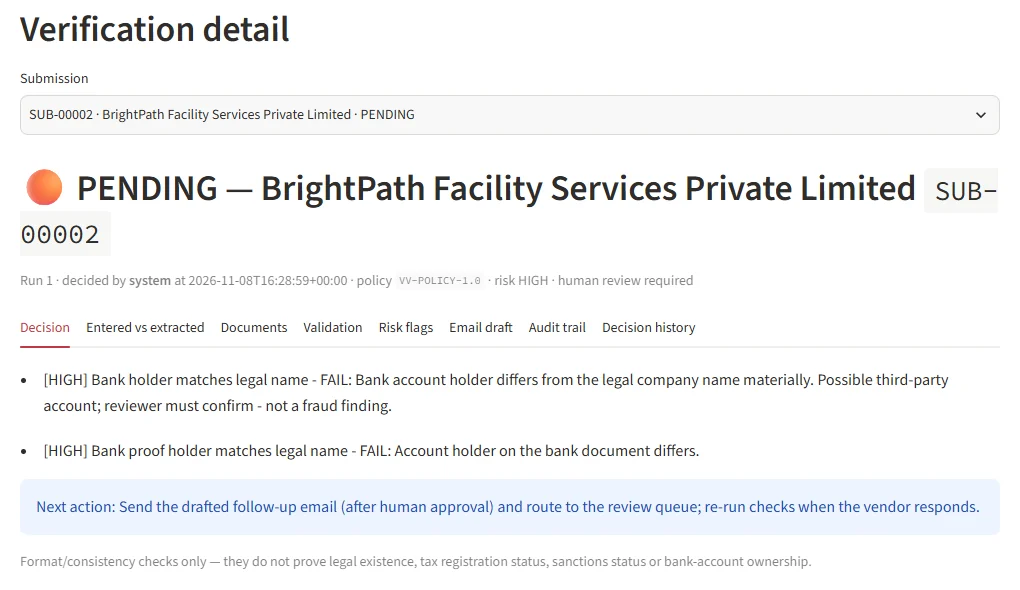
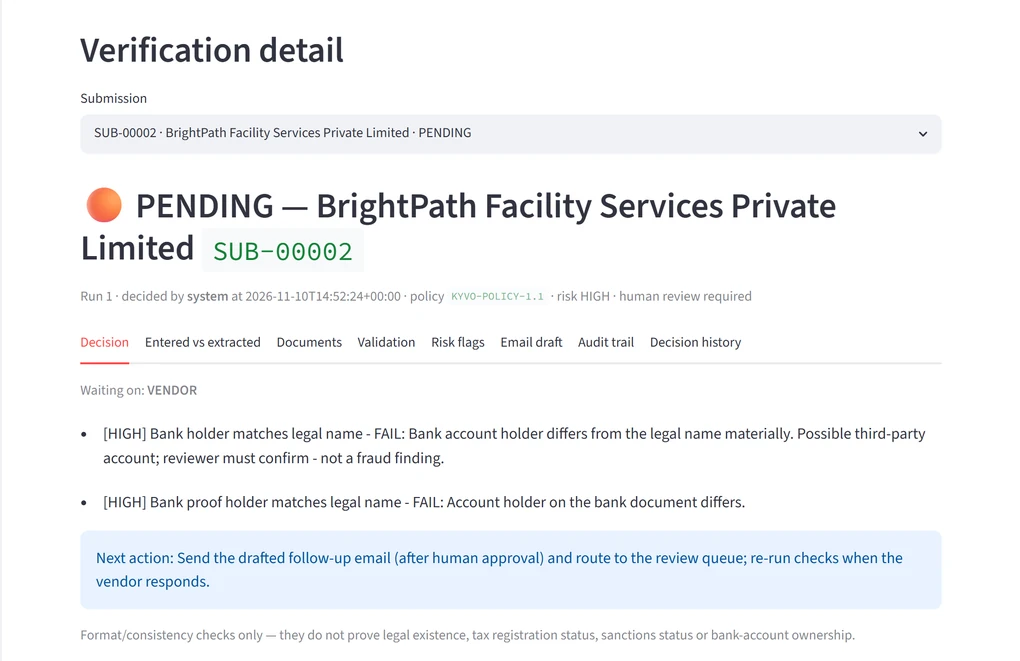
Regenerate hero screenshot with KYVO-POLICY-1.1
The landing-page hero (docs/img/verdict.webp) still showed the pre-rebrand
policy label `VV-POLICY-1.1`. Recaptured Scenario 3 (bank-holder mismatch,
SUB-00002 BrightPath, PENDING) from the running app, which now renders
`KYVO-POLICY-1.1`. New image is 1020x661 (full card incl. the disclaimer
footer); updated the <img> height attribute to match and avoid layout shift.

diff --git a/docs/index.html b/docs/index.html
@@ -224,7 +224,7 @@
       <figure class="shot">
         <div class="frame">
           <div class="frame-bar" aria-hidden="true"><span></span><span></span><span></span></div>
-          <img src="img/verdict.webp" width="1020" height="590" fetchpriority="high"
+          <img src="img/verdict.webp" width="1020" height="661" fetchpriority="high"
                alt="Kyvo verification detail for a fictional vendor, BrightPath Facility Services Private Limited. The status is PENDING with risk HIGH and human review required. Two high severity reasons say the bank account holder differs from the legal name, and the next action is to send the drafted follow-up email after human approval.">
         </div>
         <figcaption>Scenario 3 in the running app. The bank account holder differs from the legal name, so the submission is held for a reviewer instead of being approved or rejected.</figcaption>
